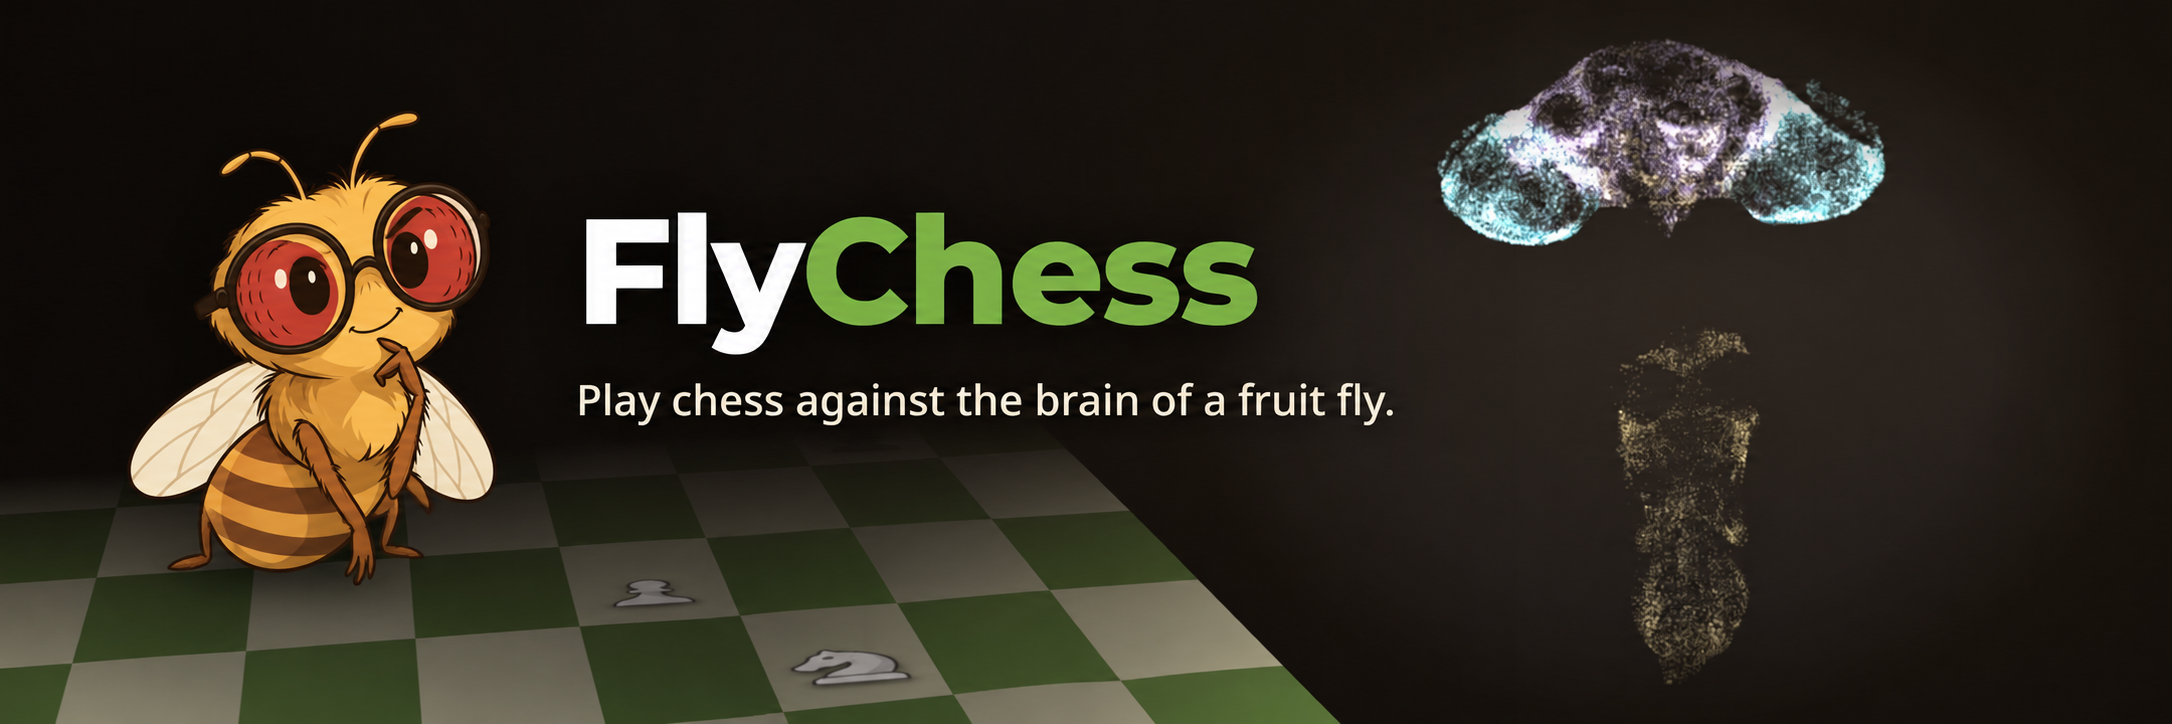
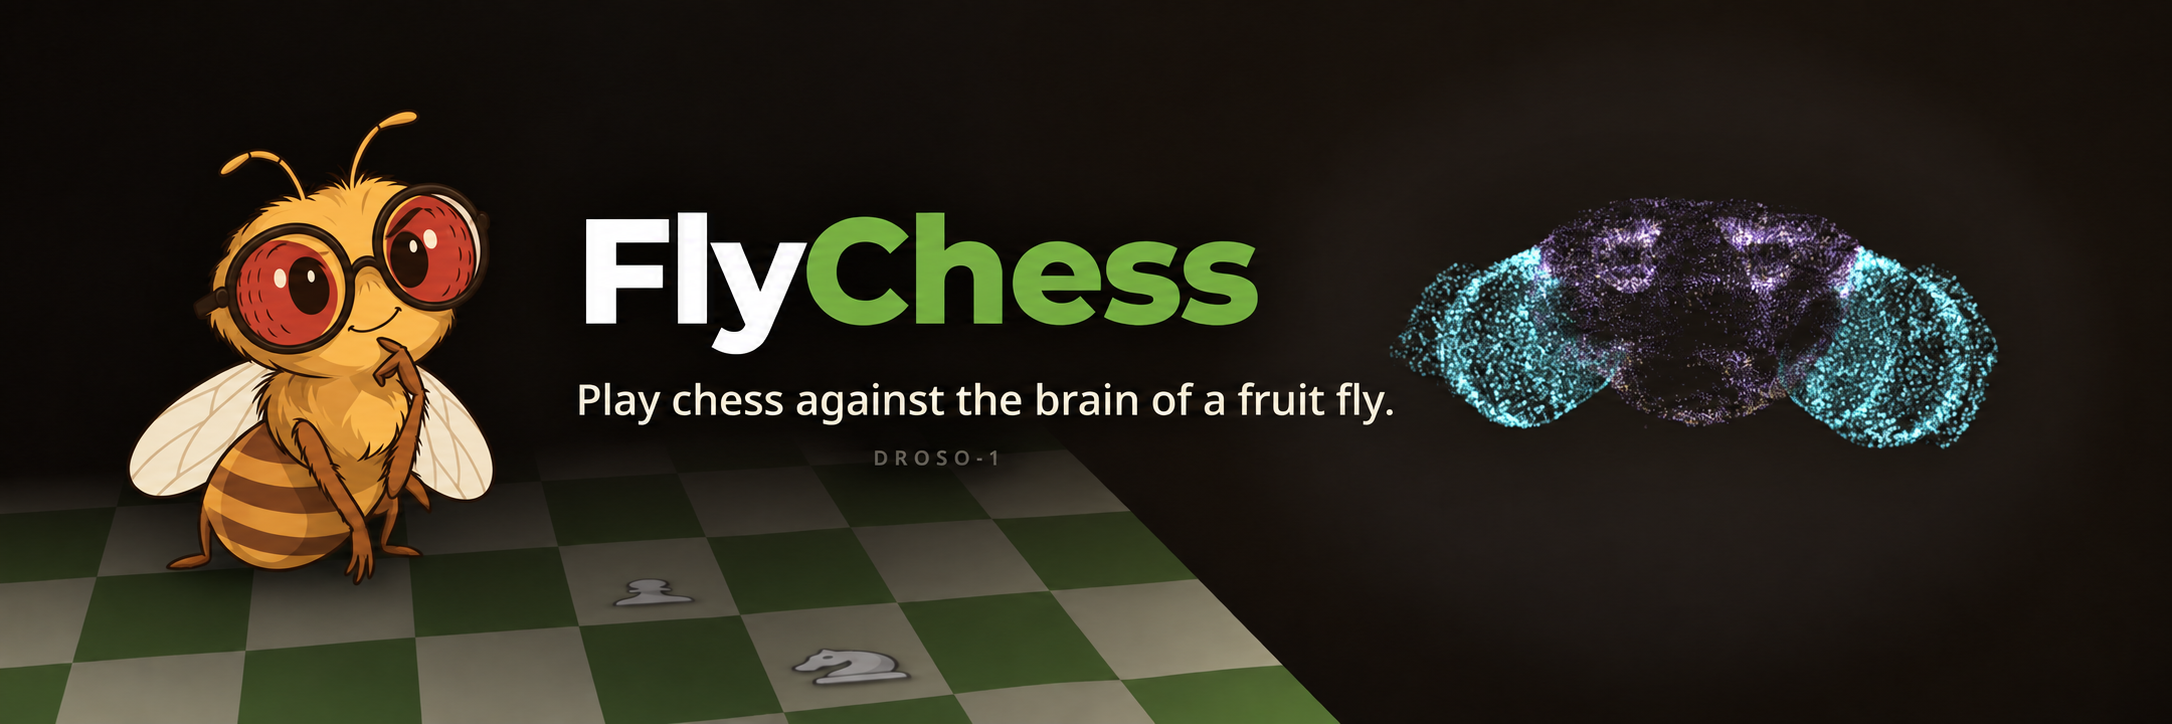
Finish DROSO-1 visual identity and verify browser play

diff --git a/src/ai/fly/planner.ts b/src/ai/fly/planner.ts
@@ -64,22 +64,29 @@ interface Node {
 function node(board: Chess, seen: Record<string,number>, halfmoveKnown: boolean): Node {
   return { board, seen, halfmoveKnown, uci: "", san: "", prior: 1, children: null, visits: 0, total: 0, initial: 0, proof: null, distance: 0 };
 }
-function terminal(n: Node): number | null {
-  const b = n.board;
-  if (b.isCheckmate()) return -1;
-  if (b.isStalemate() || b.isInsufficientMaterial()) return 0;
-  const clock = Number(b.fen().split(" ")[4]);
-  if (n.seen[positionKey(b.fen())] >= 3 || (n.halfmoveKnown && clock >= 100)) return 0;
-  // python-chess can_claim_draw also accepts a claim with the intended next move.
-  if ((n.halfmoveKnown && clock >= 99) || Object.values(n.seen).some(count => count >= 2)) {
-    for (const move of b.moves({ verbose: true })) {
+/** Same draw-claim rule as the Python player, shared with the game lifecycle.
+ * Inspect a copy: the live game's history and position must remain unchanged.
+ */
+export function drawClaim(position: Chess, seen: Record<string, number>, halfmoveKnown = true): "threefold" | "fifty_moves" | null {
+  if (position.isCheckmate()) return null;
+  const fen=position.fen(), clock=Number(fen.split(" ")[4]);
+  if ((seen[positionKey(fen)] ?? 0)>=3) return "threefold";
+  if (halfmoveKnown && clock>=100) return "fifty_moves";
+  if ((halfmoveKnown && clock>=99) || Object.values(seen).some(count=>count>=2)) {
+    const b=new Chess(fen);
+    for(const move of b.moves({verbose:true})) {
       b.move(move);
-      const claim = (n.seen[positionKey(b.fen())] ?? 0) >= 2 ||
-        (n.halfmoveKnown && Number(b.fen().split(" ")[4]) >= 100 && !b.isCheckmate());
+      const reason=(seen[positionKey(b.fen())] ?? 0)>=2 ? "threefold" :
+        halfmoveKnown && Number(b.fen().split(" ")[4])>=100 && !b.isCheckmate() ? "fifty_moves" : null;
       b.undo();
-      if (claim) return 0;
+      if(reason) return reason;
     }
   }
+  return null;
+}
+function terminal(n: Node): number | null {
+  if(n.board.isCheckmate()) return -1;
+  if(n.board.isStalemate() || n.board.isInsufficientMaterial() || drawClaim(n.board,n.seen,n.halfmoveKnown)) return 0;
   return null;
 }
 function solve(n: Node) {

diff --git a/src/ai/fly/planner.test.ts b/src/ai/fly/planner.test.ts
@@ -2,7 +2,7 @@ import { describe, expect, it } from "vitest";
 import { Chess } from "chess.js";
 import type { BrainOutput } from "./brain";
 import { encodeBoard, MOVE_SPACE, SQUARE_FEATURES, type EncodedBoard } from "./encoding";
-import { plan, rankLegalMoves, seenPositions } from "./planner";
+import { drawClaim, plan, rankLegalMoves, seenPositions } from "./planner";
 
 function output(board: EncodedBoard, favorite = "e2e4", value = 0): BrainOutput {
   const policy=new Float32Array(MOVE_SPACE).fill(-20);
@@ -58,6 +58,15 @@ describe("DROSO-1 PUCT",()=> {
   it("respects fifty-move claims, but mate takes precedence",async()=> {
     for(const fen of ["8/8/8/8/8/3k4/8/K6R w - - 100 70","7k/6Q1/6K1/8/8/8/8/8 b - - 100 70"])
       await expect(plan(new Chess(fen),b=>output(b))).rejects.toThrow("terminal");
+  });
+  it("shares intended-move draw claims without modifying the live game",()=> {
+    const chess=new Chess();
+    for(const san of ["Nf3","Nf6","Ng1","Ng8","Nf3","Nf6","Ng1"])chess.move(san);
+    const history=chess.history(), fen=chess.fen();
+    expect(drawClaim(chess,seenPositions(chess.history({verbose:true}),fen))).toBe("threefold");
+    expect(chess.fen()).toBe(fen); expect(chess.history()).toEqual(history);
+    const clock=new Chess("8/8/8/8/8/3k4/8/K6R w - - 99 70");
+    expect(drawClaim(clock,{})).toBe("fifty_moves");
   });
   it("finishes the root even when the deadline expires",async()=> {
     let time=0;

diff --git a/src/hooks/useGameLifecycle.ts b/src/hooks/useGameLifecycle.ts
@@ -6,6 +6,7 @@
 import { useEffect, useRef } from "react";
 import { useGameStore } from "@/state/game";
 import { isFlagged, isUnlimited } from "@/engine/clock";
+import { drawClaim, seenPositions } from "@/ai/fly/planner";
 import { finishGame } from "@/game/session";
 
 export function useGameLifecycle(): void {
@@ -16,13 +17,18 @@ export function useGameLifecycle(): void {
   const warned = useRef(false);
 
   useEffect(() => {
-    const { chess } = useGameStore.getState();
+    const { chess, botId } = useGameStore.getState();
     if (phase !== "playing") return;
     if (chess.isCheckmate()) finishGame({ winner: chess.turn() === "w" ? "b" : "w", reason: "checkmate" });
     else if (chess.isStalemate()) finishGame({ winner: null, reason: "stalemate" });
     else if (chess.isInsufficientMaterial()) finishGame({ winner: null, reason: "insufficient" });
     else if (chess.isThreefoldRepetition()) finishGame({ winner: null, reason: "threefold" });
     else if (chess.isDrawByFiftyMoves()) finishGame({ winner: null, reason: "fifty_moves" });
+    else if (botId) {
+      // Match the model's claim_draw=True protocol before asking it for a move.
+      const reason=drawClaim(chess,seenPositions(chess.history({verbose:true}),chess.fen()));
+      if(reason) finishGame({winner:null,reason});
+    }
   }, [fen, phase]);
 
   useEffect(() => {

diff --git a/src/ai/fly/brain.test.ts b/src/ai/fly/brain.test.ts
@@ -4,7 +4,7 @@ import { FLOW_SIZE, FlyBrain, GROUP_COUNT, ROLE_GLOBAL, ROLE_READOUT, ROLE_VISUA
 import { Connectome } from "./connectome";
 import { encodeBoard, GLOBAL_FEATURES, SQUARE_FEATURES, squareIndex } from "./encoding";
 import { buildConnectome, buildWeights } from "./test-helpers";
-import { FlyWeights, halfToFloat } from "./weights";
+import { FlyWeights } from "./weights";
 
 /** 0 (visual, sees e2) → 1 → 2 ; 3 (inhibitory) → 2 ; 4 senses the constant global feature. */
 function circuit(inhibitorySign = -1) {
@@ -27,12 +27,9 @@ function circuit(inhibitorySign = -1) {
 }
 
 describe("fly brain inference", () => {
-  it("decodes IEEE half floats", () => {
-    expect(Array.from(halfToFloat(new Uint16Array([0x0000, 0x3c00, 0xc000, 0x3555, 0x7c00])))).toEqual([0, 1, -2, expect.closeTo(0.33325, 4), Infinity]);
-  });
-
   it("rejects malformed weight files", () => {
-    const { weights } = circuit();
+    const { graph, weights } = circuit();
+    expect(graph.ids[0]).toBe(720575940000000000n);
     expect(() => new FlyWeights(weights.buffer.slice(0, -4))).toThrow();
     const wrongMagic = weights.buffer.slice(0);
     new Uint32Array(wrongMagic, 0, 1)[0] = 1;

diff --git a/src/ai/fly/weights.ts b/src/ai/fly/weights.ts
@@ -41,7 +41,7 @@ export class FlyWeights {
   readonly globalFeatures: number;
   readonly alpha: number;
   readonly kappa: number;
-    readonly visIndex: Uint32Array;
+  readonly visIndex: Uint32Array;
   readonly visSquare: Uint8Array;
   readonly visWeight: Float32Array;
   readonly globIndex: Uint32Array;
@@ -106,19 +106,4 @@ export class FlyWeights {
     for (const index of this.readout) if (index >= n) throw new Error("Readout index out of range.");
     for (const square of this.visSquare) if (square > 63) throw new Error("Visual square out of range.");
   }
-}
-
-/** IEEE 754 binary16 → binary32, without relying on Float16Array support. */
-export function halfToFloat(halves: Uint16Array): Float32Array {
-  const out = new Float32Array(halves.length);
-  for (let i = 0; i < halves.length; i++) {
-    const h = halves[i];
-    const sign = h & 0x8000 ? -1 : 1;
-    const exponent = (h >> 10) & 0x1f;
-    const mantissa = h & 0x3ff;
-    if (exponent === 0) out[i] = sign * mantissa * 2 ** -24;
-    else if (exponent === 31) out[i] = mantissa ? NaN : sign * Infinity;
-    else out[i] = sign * (1 + mantissa / 1024) * 2 ** (exponent - 15);
-  }
-  return out;
 }

diff --git a/index.html b/index.html
@@ -4,7 +4,9 @@
     <meta charset="UTF-8" />
     <meta name="viewport" content="width=device-width, initial-scale=1.0" />
     <title>FlyChess · play the fly's brain</title>
-    <link rel="icon" type="image/svg+xml" href="./avatars/fly.svg" />
+    <link rel="icon" href="./favicon.ico" sizes="16x16 32x32 48x48" />
+    <link rel="icon" type="image/png" sizes="32x32" href="./favicon-32.png" />
+    <link rel="apple-touch-icon" sizes="180x180" href="./apple-touch-icon.png" />
     <meta name="description" content="Play DROSO-1, a chess model built on 134,181 fruit-fly neurons from FlyWire. Watch its simulated brain activity as it thinks." />
     <meta name="theme-color" content="#302e2b" />
     <link rel="preconnect" href="https://fonts.googleapis.com" />

diff --git a/src/ai/fly/brain.ts b/src/ai/fly/brain.ts
@@ -15,7 +15,7 @@ import type { FlyWeights, Linear } from "./weights";
 export interface BrainOutput {
   /** Unmasked policy logits over 4168 mover-frame actions. */
   policy: Float32Array;
-  /** Expected opponent reply logits (mover frame of the *current* side). */
+  /** Unused auxiliary reply logits, retained for checkpoint parity. */
   reply: Float32Array;
   /** Current CP tanh in slot 0; auxiliary slots are unused by DROSO-1 search. */
   value: Float32Array;

diff --git a/docs/development.md b/docs/development.md
@@ -99,18 +99,14 @@ CHROMIUM_PATH=/usr/bin/chromium pnpm media   # needs ffmpeg
 Both GIFs are 800 × 450 (16:9) at 12 fps and a few MB each, so GitHub shows
 them quickly and at the same size.
 
-The README uses `docs/media/banner-illustrated.png`, generated separately
-with imagegen from the original banner and the Thinker avatar. The exact
-prompt is saved in `output/imagegen/banner/prompt.md`. The media script's
-legacy `banner.png` output is independent of this illustrated banner.
+The media script records only the application views; it does not touch the
+illustrated README banner, `docs/media/banner-illustrated.png`.
 
 ## Mascot
 
-The three generated portraits in `public/avatars/flies/` are `scout`, `tactician`
+The three portraits in `public/avatars/flies/` are `scout`, `tactician`
 and `thinker`. They share the same DROSO-1 checkpoint. Old saved selections
 migrate to the corresponding new style.
 
-The favicon uses the same character and illustration style. Exact generation
-prompts and reference names are saved in [avatar-prompts.json](droso-1/avatar-prompts.json).
-Local full-resolution sources live in `output/imagegen/droso-1/`; the app only
-ships optimised assets. Old portraits and the obsolete SVG mascot are removed.
+The favicon uses the same character and illustration style. The app ships
+optimised assets only. Old portraits and the obsolete SVG mascot are removed.

diff --git a/docs/data.md b/docs/data.md
@@ -44,8 +44,5 @@ fly's moves.
 
 ## Illustrations
 
-The DROSO-1 avatars and favicon were generated with the built-in imagegen tool,
-using the earlier approved FlyChess portraits as references. The exact
-[prompts](droso-1/avatar-prompts.json) are committed; application assets live
-in `public/avatars/flies/` and `public/`. Full-resolution working images are
-kept locally in `output/imagegen/droso-1/`.
+The fly portraits live in `public/avatars/flies/`, the favicon in `public/`
+and the README banner in `docs/media/`.
